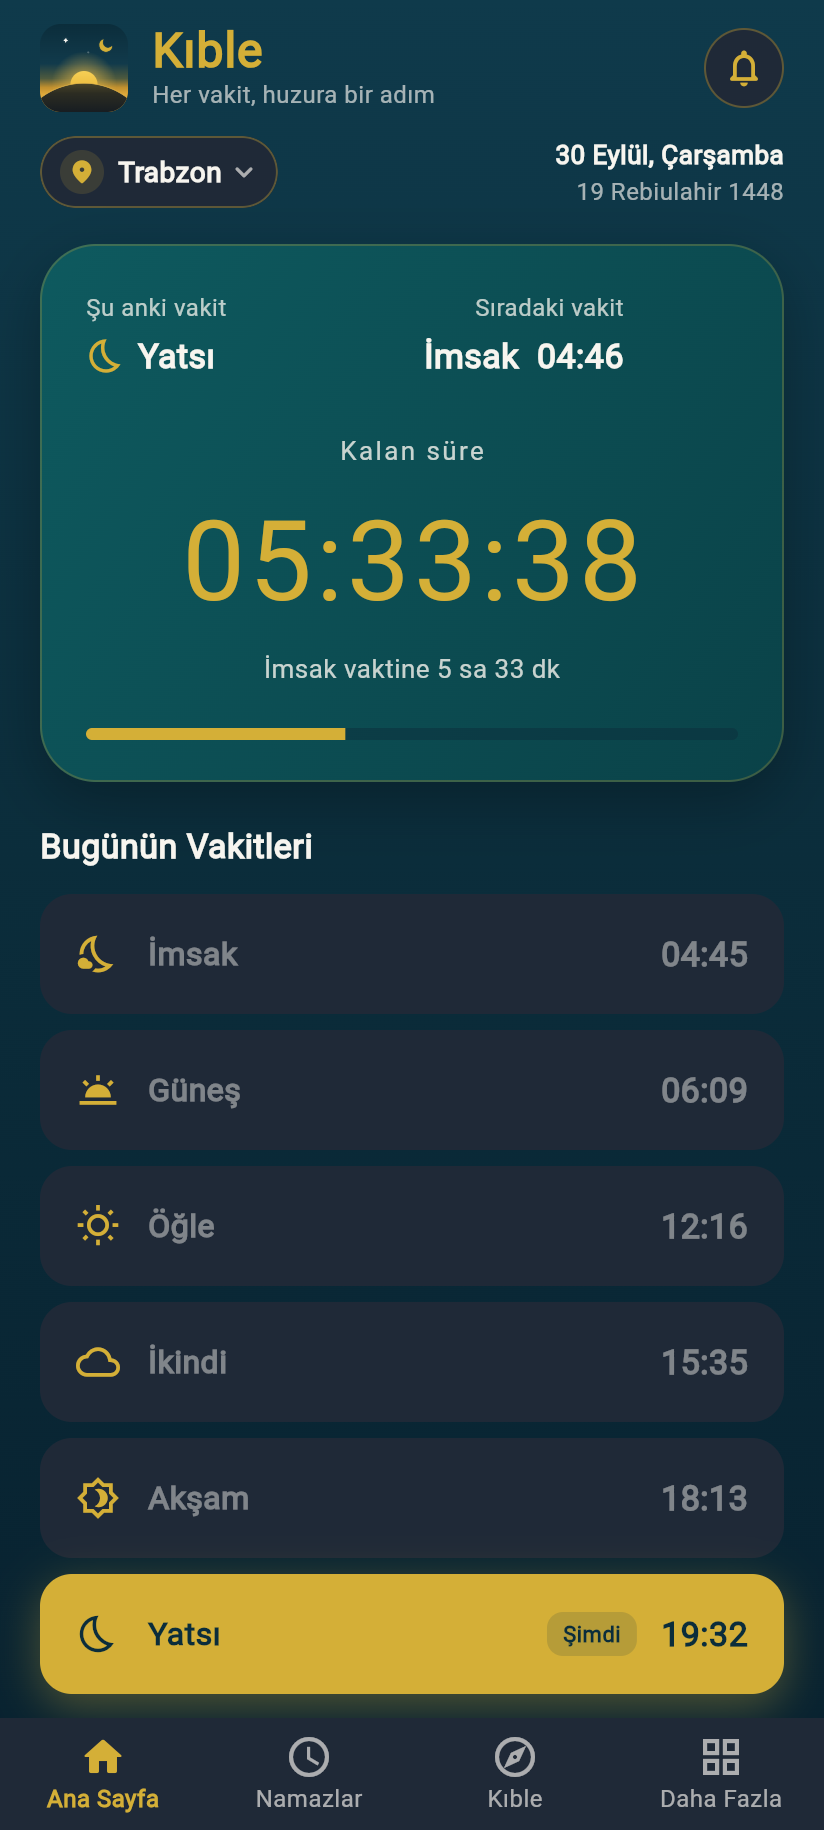
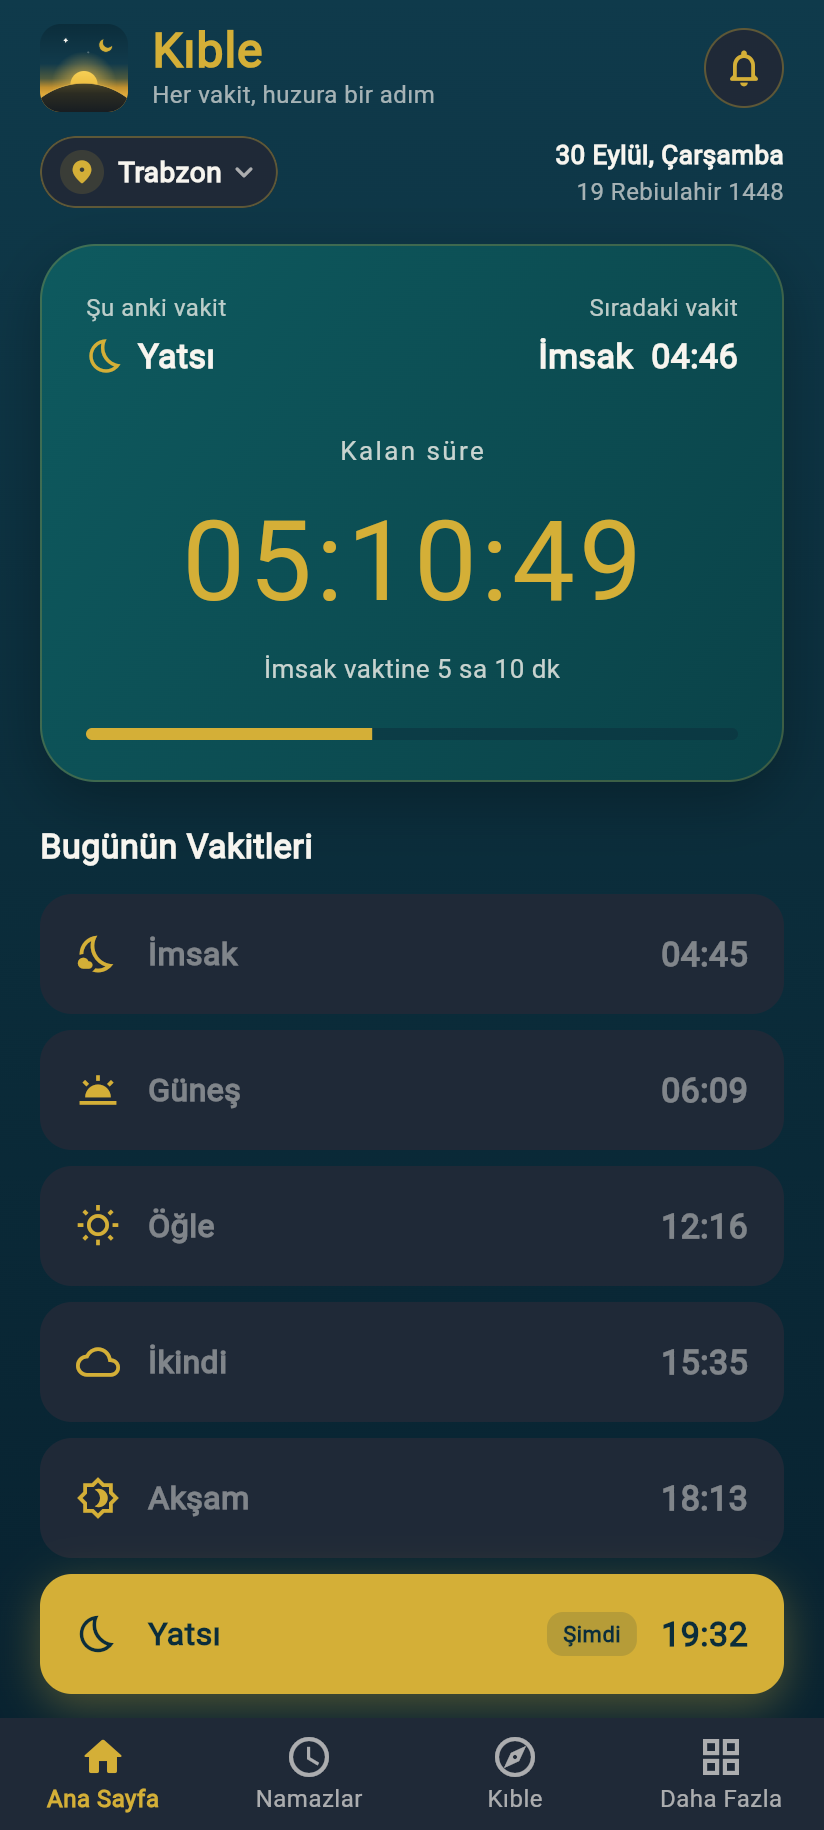
Geri sayım kartında sıradaki vakti sağa yasla

diff --git a/lib/screens/home/widgets/countdown_card.dart b/lib/screens/home/widgets/countdown_card.dart
@@ -49,9 +49,11 @@ class CountdownCard extends StatelessWidget {
       child: Column(
         crossAxisAlignment: CrossAxisAlignment.start,
         children: [
+          // Şu anki vakit sola, sıradaki vakit sağ kenara yaslı.
           Row(
+            mainAxisAlignment: MainAxisAlignment.spaceBetween,
             children: [
-              Expanded(
+              Flexible(
                 child: _Label(
                   caption: 'Şu anki vakit',
                   value: current?.type.label ?? '—',
